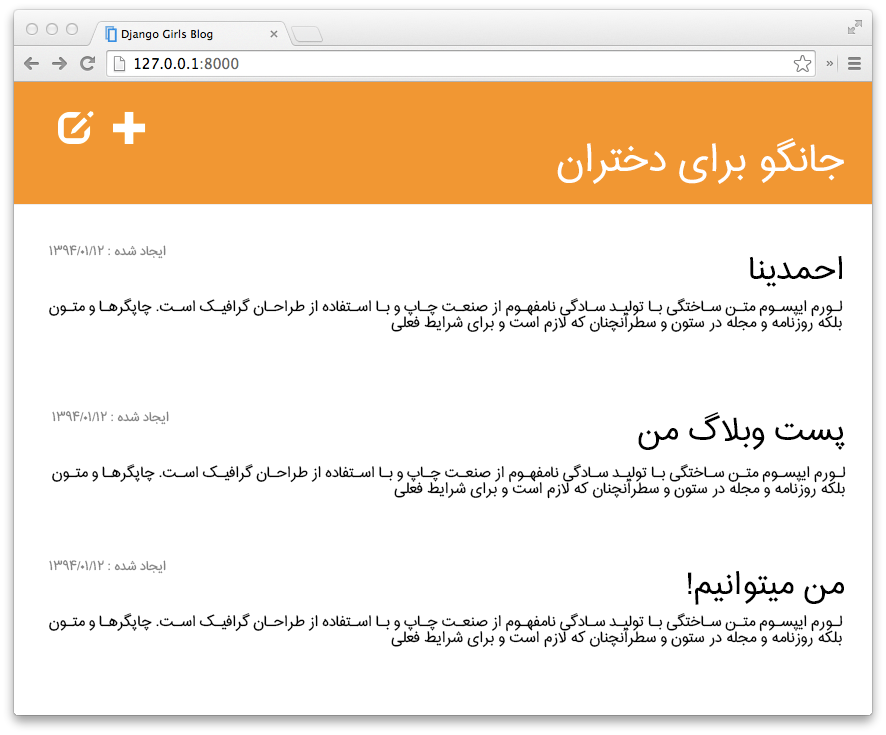
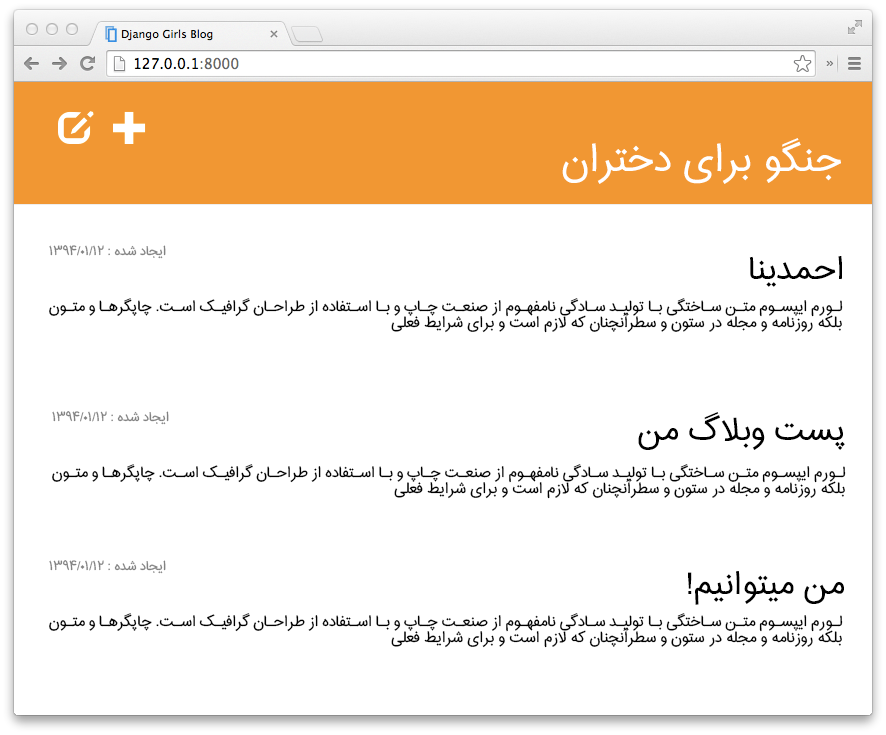
Corrected misspelling

Changed region(s): [[0.6095, 0.1796, 0.9447, 0.2694]]

diff --git a/fa/README.md b/fa/README.md
@@ -1,12 +1,14 @@
-# جانگو برای دختران
+# جنگو برای دختران
 
-[![Gitter](https://badges.gitter.im/Join Chat.svg)](https://gitter.im/DjangoGirls/tutorial?utm_source=badge&utm_medium=badge&utm_campaign=pr-badge&utm_content=badge)
+[\[![Gitter\](https://badges.gitter.im/Join Chat.svg)](https://gitter.im/DjangoGirls/tutorial?utm_source=badge&utm_medium=badge&utm_campaign=pr-badge&utm_content=badge) ][1]
 
-> این پروژه تحت لیسانس Creative Commons Attribution-ShareAlike 4.0 می باشد. این لیسانس بین المللی بوده٫ برای نمایش و کپی این لیسانس٫ مراجعه کنید به http://creativecommons.org/licenses/by-sa/4.0/
+ [1]: https://gitter.im/DjangoGirls/tutorial?utm_source=badge&utm_medium=badge&utm_campaign=pr-badge&utm_content=badge
+
+> این پروژه تحت لیسانس Creative Commons Attribution-ShareAlike 4.0 میباشد. این لیسانس بین المللی بوده٫ برای نمایش و کپی این لیسانس٫ مراجعه کنید به http://creativecommons.org/licenses/by-sa/4.0/
 
 ## معرفی
 
-آیا تا به حال حس کردهاید که جهان بیشتر و بیشتر به سمت فناوری میرود، و شما کمی جا ماندهاید؟ آیا شده به ساختن یک وبسایت فکر کنید ولی انگیزه کافی را برای شروع اش نداشته باشید؟ آیا شده به ساختن یک وبسایت فکر کنید ولی انگیزه کافی را برای شروع آن نداشته باشید؟
+آیا تا به حال حس کردهاید که جهان بیشتر و بیشتر به سمت فناوری میرود، و شما کمی جا ماندهاید؟ آیا شده به ساختن یک وبسایت فکر کنید ولی انگیزه کافی را برای شروع اش نداشته باشید؟ آیا شده به ساختن یک وبسایت فکر کنید ولی انگیزه کافی را برای شروع آن نداشته باشید؟
 
 ما خبرهای خوبی برای شما داریم. برنامه نویسی آن قدر که به نظر میرسد سخت نیست و میخواهیم نشان دهیم که حتی میتواند جالب هم باشد.
 
@@ -16,7 +18,7 @@
 
 ## در این راهنما چه چیزی یاد خواهید گرفت؟
 
-بعد از تمام کردن این راهنما، شما میتوانید یک برنامه تحت وب کامل و کاربردی بنویسید... وبلاگ شخصی خودتان!
+بعد از تمام کردن این راهنما، شما میتوانید یک برنامه تحت وب کامل و کاربردی بنویسید... وبلاگ شخصی خودتان!
 
 این (کم و بیش) شبیه این خواهد شد:
 
@@ -39,7 +41,7 @@
 
 ## آیا علاقه مند به کمک به ما در ترجمه این آموزش به زبان های دیگر هستید؟
 
-ما برای ترجمه این آموزش به زبان های دیگر از پلتفرم crowdin.com استفاده میکنیم:
+ما برای ترجمه این آموزش به زبان های دیگر از پلتفرم crowdin.com استفاده میکنیم :
 
 https://crowdin.com/project/django-girls-tutorial
 

diff --git a/fa/code_editor/README.md b/fa/code_editor/README.md
@@ -1,10 +1,10 @@
 # ویرایشگر کد
 
-برای نوشتن کد ابتدا به یک ویرایشگر کد نیاز است. شما میتوانید اقدام به دانلود یک ویرایشگر کد کنید!
+برای نوشتن کد ابتدا به یک ویرایشگر کد نیاز است. شما میتوانید اقدام به دانلود یک ویرایشگر کد کنید!
 
-تفاوت های زیادی بین ویرایشگرهای کد وجود دارد٫ اما تا حد بسیاری از این تفاوت ها بستگی به دلایل شخصی دارد. بیشتر توسعه دهنده گان پایتون از ویرایشگرهای ( Integrated Development Environments = IDE) قدرتمند استفاده میکنند٫ نظیر PyCharm. ما برای مبتدیان ویرایشگرهای کد را پیشنهاد می دهیم٫ که به همان اندازه قدرت مند هستند.
+تفاوت های زیادی بین ویرایشگرهای کد وجود دارد٫ اما تا حد بسیاری از این تفاوت ها بستگی به دلایل شخصی دارد. بیشتر توسعه دهنده گان پایتون از ویرایشگرهای ( Integrated Development Environments = میکنند٫ نظیر PyCharm. ما برای مبتدیان ویرایشگرهای کد را پیشنهاد می دهیم٫ که به همان اندازه قدرت مند هستند.
 
-ما موارد زیر را پیشنهاد میکنیم٫ اما شما می توانید با پرسش از مربی خود درباره اینکه کدام یک بیشتر به شما کمک می کند انتخاب کنید.
+ما موارد زیر را پیشنهاد میکنیم٫ اما شما می توانید با پرسش از مربی خود درباره اینکه کدام یک بیشتر به شما کمک میکند انتخاب کنید.
 
 ## Gedit
 
